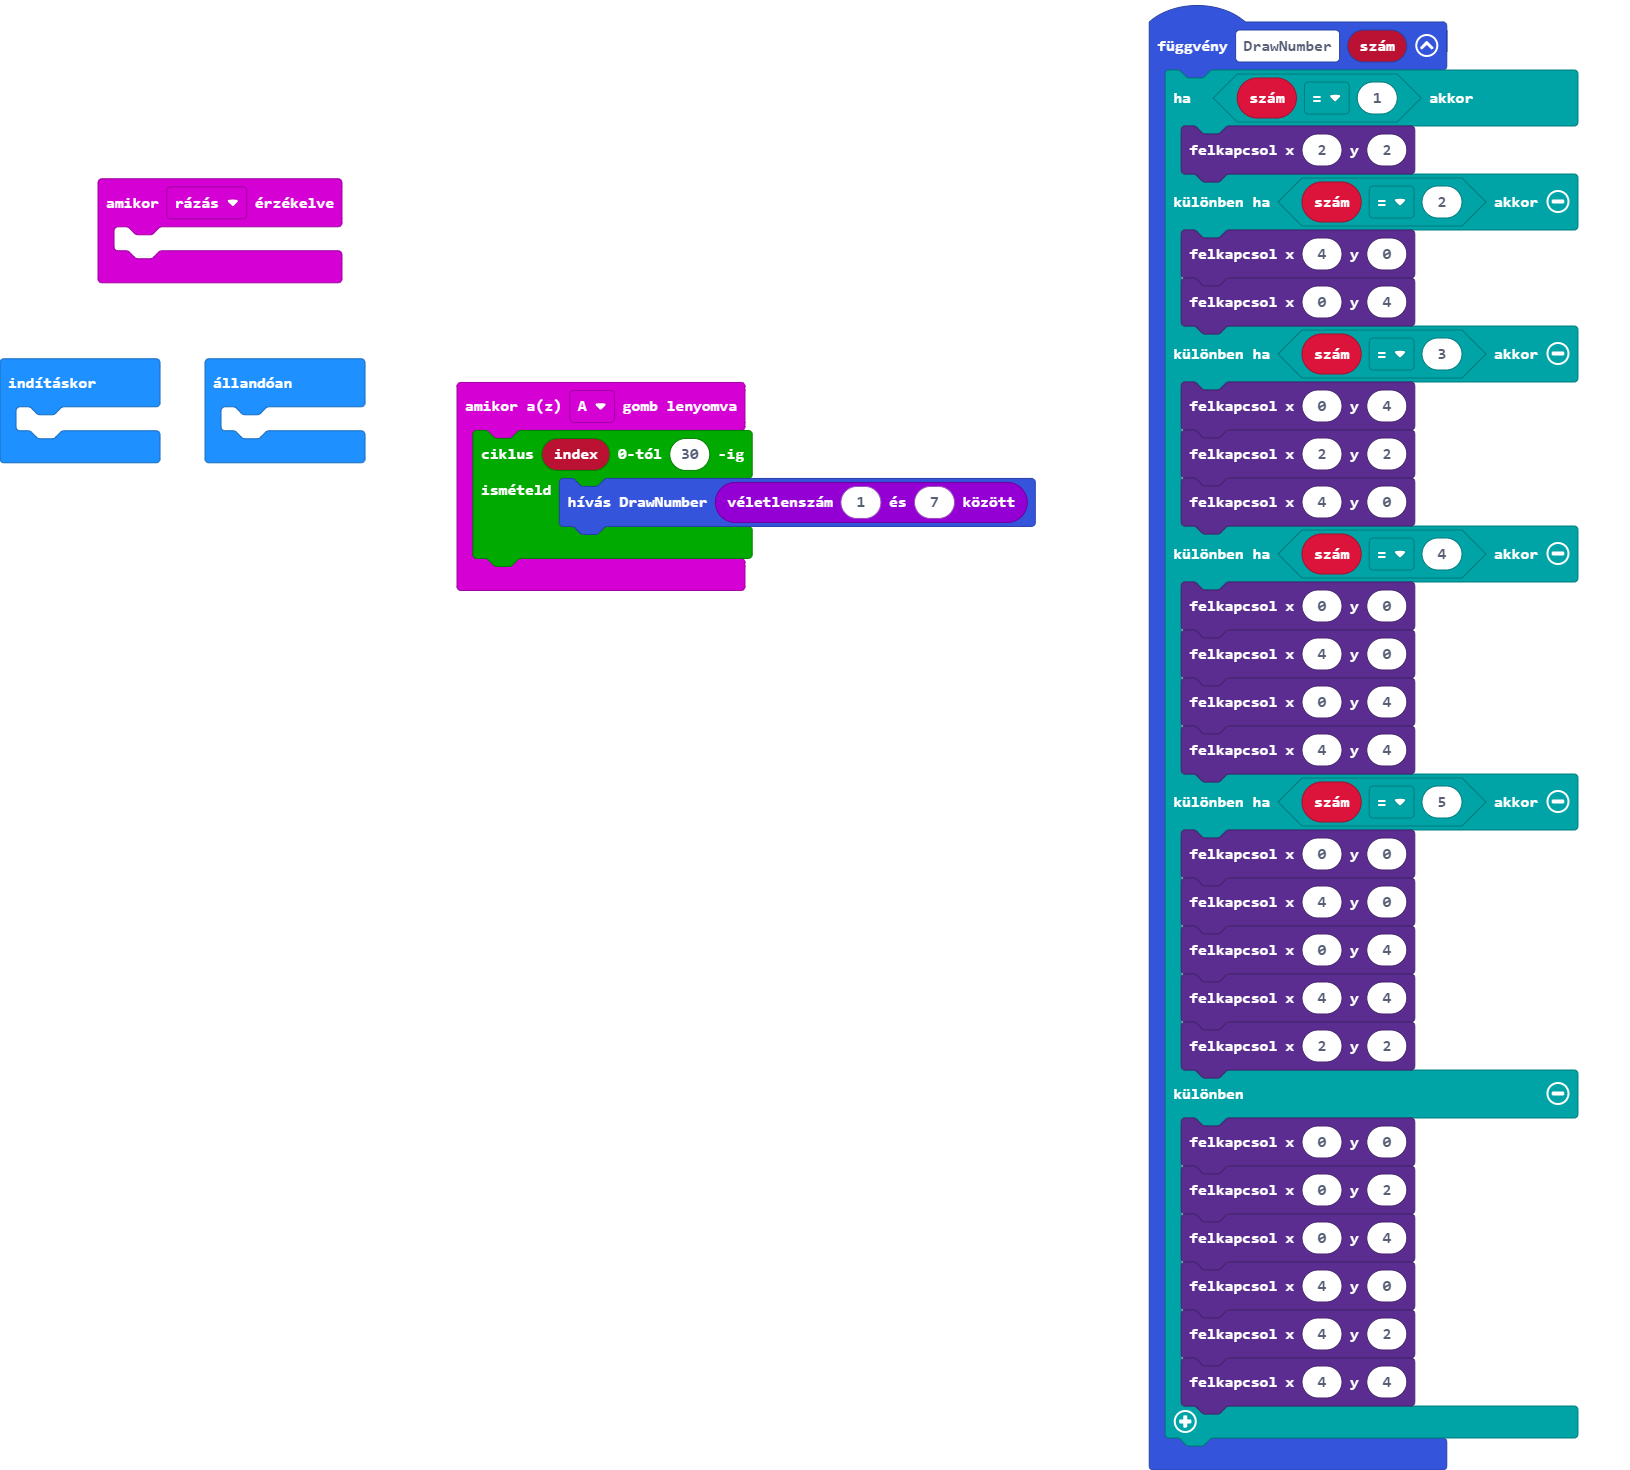
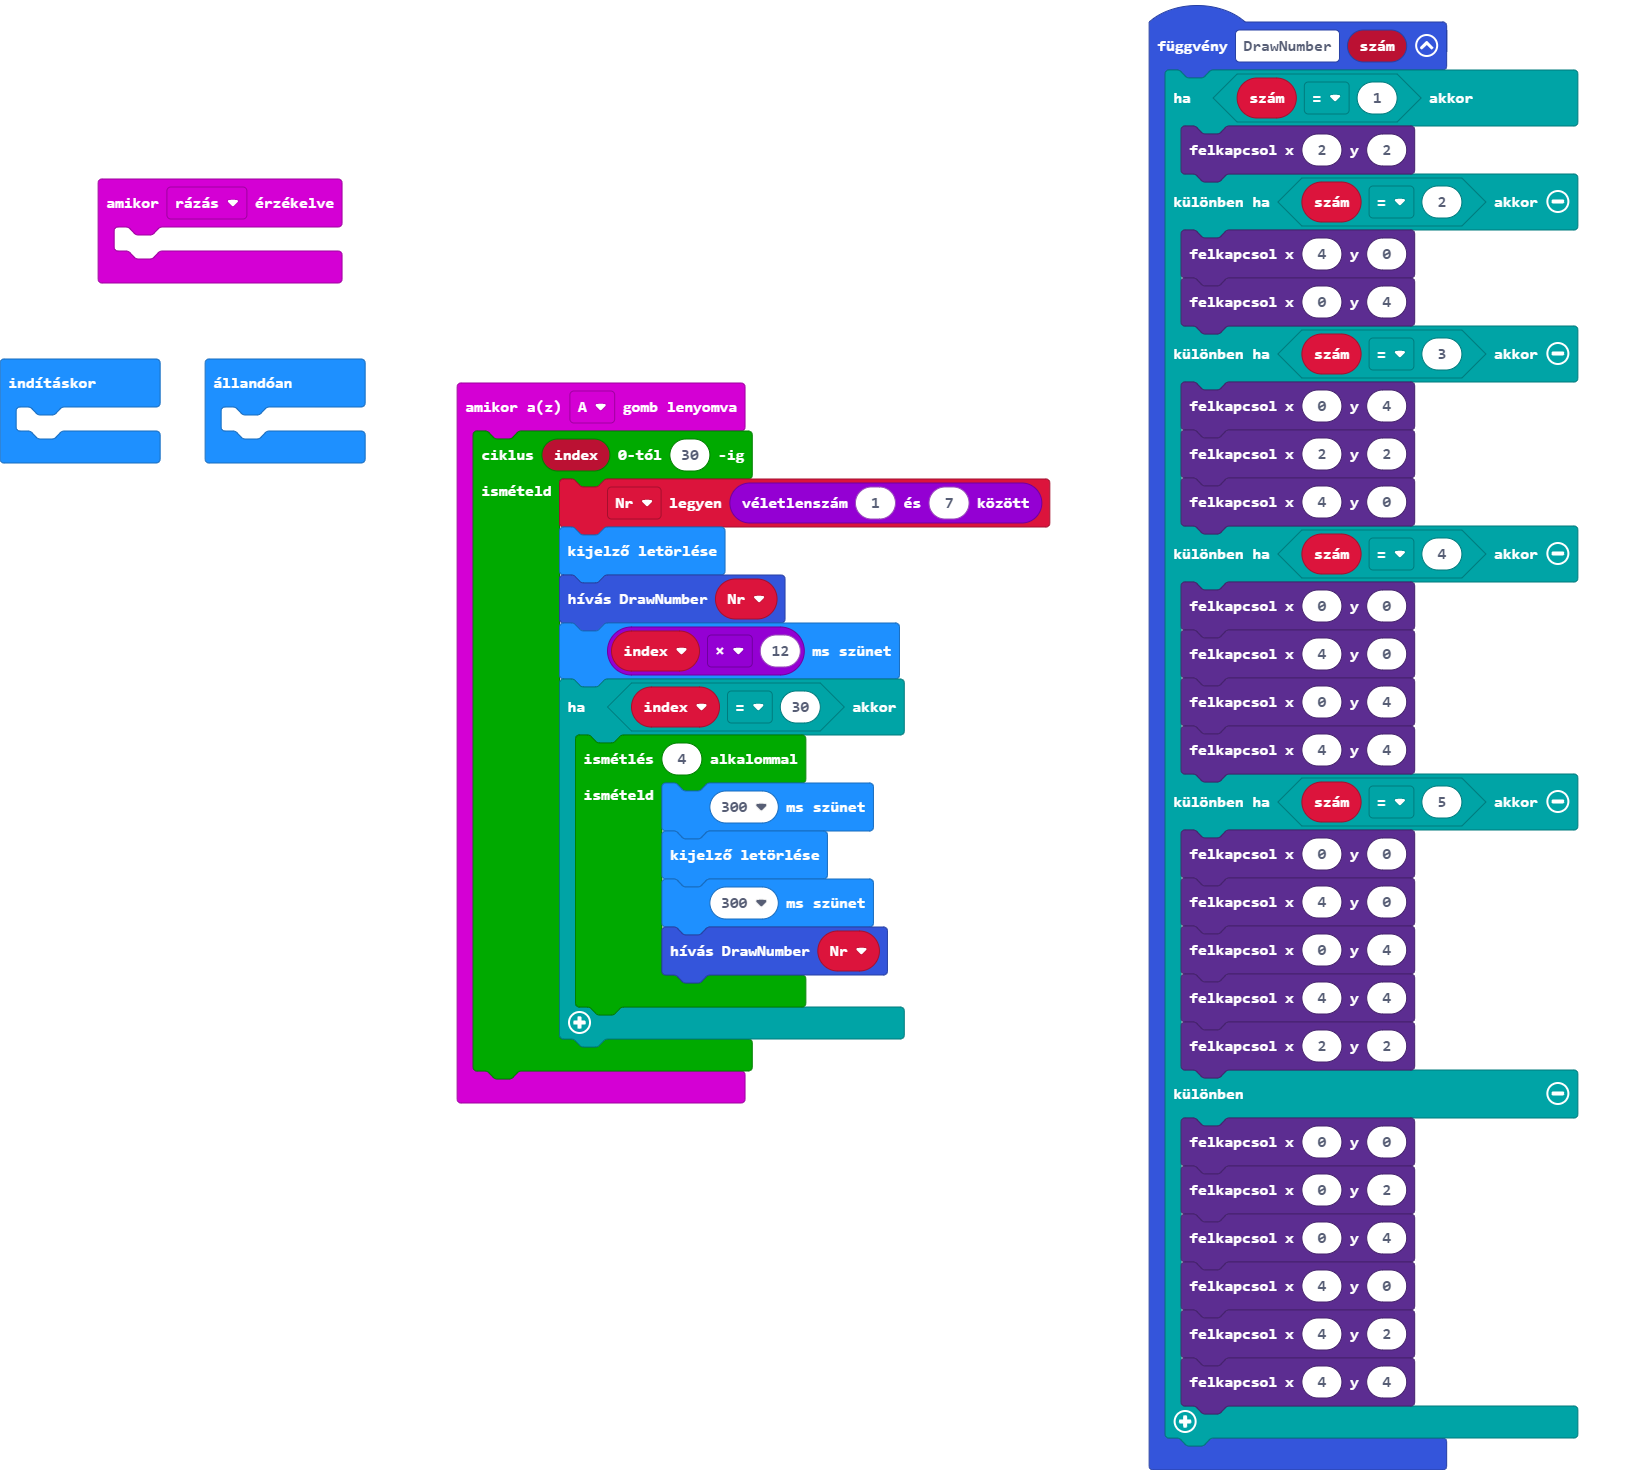
Animation

Changed region(s): [[0.2761, 0.2755, 0.6442, 0.7653]]

diff --git a/main.ts b/main.ts
@@ -1,6 +1,18 @@
+let Nr = 0
 input.onButtonPressed(Button.A, function () {
     for (let index = 0; index <= 30; index++) {
-        DrawNumber(randint(1, 7))
+        Nr = randint(1, 7)
+        basic.clearScreen()
+        DrawNumber(Nr)
+        basic.pause(index * 12)
+        if (index == 30) {
+            for (let index2 = 0; index2 < 4; index2++) {
+                basic.pause(300)
+                basic.clearScreen()
+                basic.pause(300)
+                DrawNumber(Nr)
+            }
+        }
     }
 })
 function DrawNumber (szám: number) {
